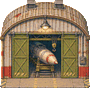
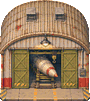
Входы базы перерисованы под камеру 40°; клип спасателей без тени
- iso/entry_{workshop,shop,board,monument}.png — попытка 2 того же чата генератора: крыши ангара и лавки видны сверху, как у соседних построек (была камера ~25–30°). Те же места и ширины; размеры в base-iso.json, фонари ISO_LAMPS по новым спрайтам.
- iso-clips: полосу над корпусом машины спасателей закрывают строки бокса над ним (patch), а не ровная заливка — тени больше нет.

diff --git a/game/src/render/iso-clips.js b/game/src/render/iso-clips.js
@@ -21,7 +21,8 @@ export const ISO_PART_CLIPS = {
   rescue: {
     time: 3,
     hole: '#131921',
-    sample: [22, 66], // глубина бокса левее машины
+    // освободившуюся полосу над корпусом закрывают те же строки бокса, что над ним (продолжение стрелы и глубины)
+    patch: [31, 71],
     // только корпус с гусеницами: машина трогается к воротам на 3 px, фон бокса вокруг не сдвигается
     holes: [[31, 74, 49, 35]],
     parts: [{ rect: [31, 74, 49, 35], move: [0, 3] }],

diff --git a/game/src/render/hub-iso.js b/game/src/render/hub-iso.js
@@ -29,9 +29,9 @@ export const ISO_LAMPS = {
   factory: [[0.49, 0.39, 18], [0.16, 0.58, 12], [0.84, 0.58, 12]],
   logistics: [[0.5, 0.5, 18], [0.29, 0.24, 12], [0.66, 0.24, 12]],
   // объекты-входы: фонарь над воротами ангара, над прилавком лавки, на козырьке доски
-  workshop: [[0.5, 0.3, 14]],
-  shop: [[0.53, 0.35, 12]],
-  board: [[0.51, 0.13, 8]],
+  workshop: [[0.51, 0.42, 14]],
+  shop: [[0.53, 0.41, 12]],
+  board: [[0.49, 0.19, 8]],
 };
 
 const pair = (v) => Array.isArray(v) && v.length === 2 && v.every(Number.isFinite);
